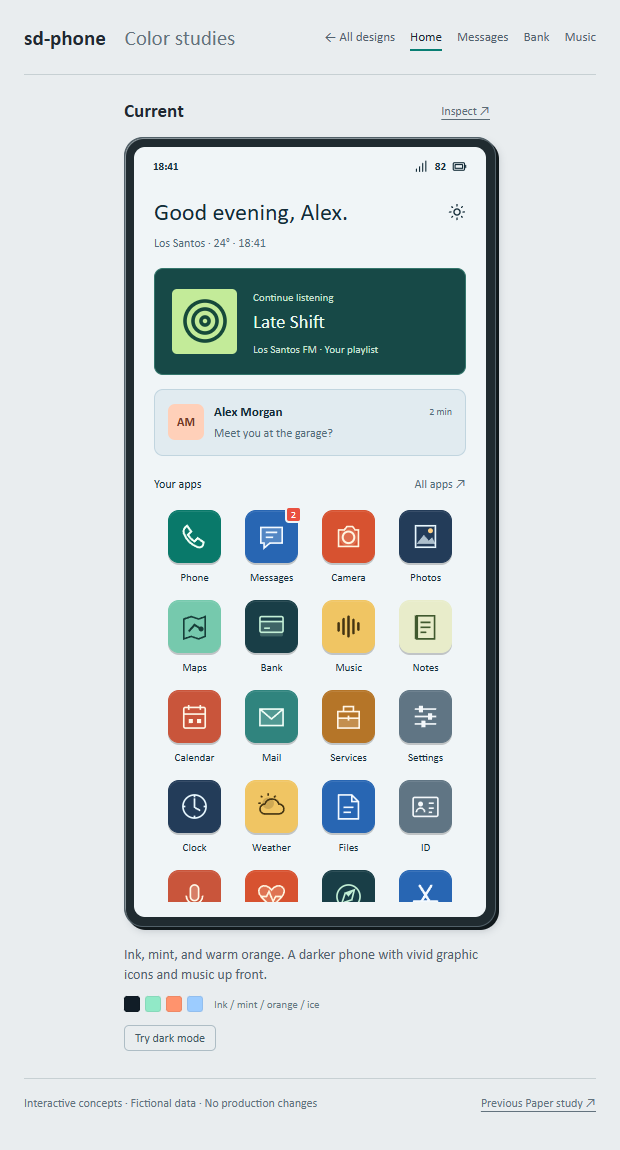
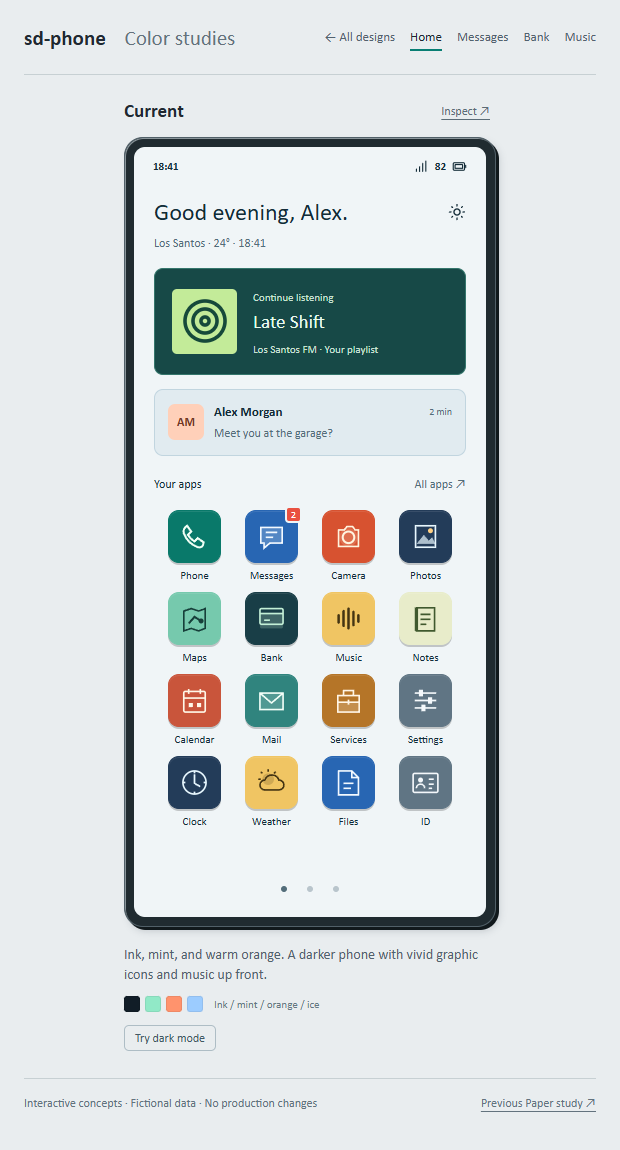
Add horizontal swipe paging to phone concept home screens

diff --git a/designs/phone-concepts/vibrant.html b/designs/phone-concepts/vibrant.html
@@ -44,7 +44,7 @@
     .content::-webkit-scrollbar { display: none; }
     .plain { border: 0; background: none; color: inherit; padding: 0; text-align: left; }
     .home { height: 100%; min-height: 650px; display: flex; flex-direction: column; padding: 13px 20px 15px; }
-    .home > :not(.app-grid) { flex-shrink: 0; }
+    .home > :not(.home-pager) { flex-shrink: 0; }
     .greeting { display: flex; align-items: center; justify-content: space-between; font-size: 12px; color: var(--muted); }
     .greeting .icon { width: 18px; height: 18px; }
     .clock-row { display: flex; justify-content: space-between; align-items: center; margin: 13px 0 16px; }
@@ -64,7 +64,15 @@
     .app-tile { min-width: 0; display: flex; align-items: center; flex-direction: column; gap: 8px; border: 0; background: none; color: var(--ink); padding: 0; }
     .app-mark { width: 53px; height: 53px; border-radius: 11px; position: relative; display: grid; place-items: center; color: var(--glyph); background: var(--tile); border: 1px solid var(--tile); box-shadow: inset 0 1px 0 #ffffff45, 0 2px 0 #10263320, 0 3px 5px #10263312; }
     .app-mark svg { width: 33px; height: 33px; }
-    .home .app-grid { flex: 1; min-height: 0; overflow-y: auto; align-content: start; row-gap: 16px; padding: 5px 5px 12px; scrollbar-width: thin; scrollbar-color: var(--line) transparent; }
+    .home-pager { display: flex; flex: 1; min-height: 0; overflow-x: auto; overflow-y: hidden; scroll-snap-type: x mandatory; overscroll-behavior-x: contain; touch-action: pan-x; scrollbar-width: none; cursor: grab; }
+    .home-pager::-webkit-scrollbar { display: none; }
+    .home-pager.dragging { cursor: grabbing; user-select: none; scroll-snap-type: none; }
+    .home .app-grid { flex: 0 0 100%; min-width: 0; height: 100%; align-content: start; row-gap: 10px; padding: 5px; scroll-snap-align: start; scroll-snap-stop: always; }
+    .home .app-tile { gap: 6px; }
+    .page-dots { display: flex; justify-content: center; height: 26px; align-items: center; gap: 2px; }
+    .page-dots button { display: grid; place-items: center; width: 24px; height: 24px; border: 0; background: none; color: var(--muted); padding: 0; }
+    .page-dots span { width: 6px; height: 6px; border-radius: 50%; background: currentColor; opacity: .35; }
+    .page-dots button[aria-current="true"] span { opacity: 1; }
     .app-label { font-size: 11px; font-weight: 500; text-align: center; }
     .app-tile:active .app-mark { box-shadow: inset 0 2px 3px #0003; }
     .count { position: absolute; right: -5px; top: -5px; width: 17px; height: 17px; background: #e95140; color: #fff; border: 2px solid var(--bg); border-radius: 4px; font-size: 10px; display: grid; place-items: center; }
@@ -247,7 +255,7 @@
       document.querySelector('h1 span').textContent = 'Coast / White & dark grey';
       document.title = 'sd-phone / Coast — White & dark grey';
     }
-    const state = Object.fromEntries(designs.map(d => [d.id, { page:'home', mode:d.mode, playing:false, messages:[], contact:'Alex Morgan' }]));
+    const state = Object.fromEntries(designs.map(d => [d.id, { page:'home', homeIndex:0, mode:d.mode, playing:false, messages:[], contact:'Alex Morgan' }]));
     const button = (id, content, cls='plain') => `<button class="${cls}" data-open="${id}" aria-label="${appNames[id] || ({home:'Home',apps:'All apps',chat:'Open conversation'}[id]) || id}">${content}</button>`;
     const tempoColors = { maps:'#24725a', music:'#856318', notes:'#40592e', camera:'#b54425', calendar:'#ac422c', services:'#885519', settings:'#526572', weather:'#856318', pages:'#856318', streaks:'#856318' };
     const tile = id => `<button class="app-tile" data-open="${id}" data-app-tile aria-label="${appNames[id]}${id === 'messages' ? ', 2 unread' : ''}"><span class="app-mark" style="--tile:${colors[id][0]};--glyph:${colors[id][1]};--current-glyph:${colors[id][2]};--tempo-glyph:${tempoColors[id] || colors[id][0]}"><svg viewBox="0 0 40 40" aria-hidden="true">${marks[id]}</svg>${id === 'messages' ? '<span class="count" aria-hidden="true">2</span>' : ''}</span><span class="app-label">${appNames[id]}</span></button>`;
@@ -255,7 +263,7 @@
     const input = label => `<label class="input-field">${icon('search')}<input data-search type="search" placeholder="${label}" aria-label="${label}"></label>`;
     const safe = value => value.replace(/[&<>"']/g, char => ({'&':'&amp;','<':'&lt;','>':'&gt;','"':'&quot;',"'":'&#39;'}[char]));
     function home(id) {
-      return `<div class="home"><div class="greeting"><span>${id === 'current' ? 'Good evening, Alex.' : 'Friday, September 25'}</span>${icon('sun')}</div><div class="clock-row"><div class="clock">${id === 'current' ? '18:41' : '09:41'}</div><div class="weather">${icon('sun')}<span>24°</span></div></div><div class="place">Los Santos${id === 'current' ? ' · 24° · 18:41' : ' · Clear skies'}</div>${id === 'current' ? button('music', `<div class="hero-record">${icon('record')}</div><div><span>Continue listening</span><strong>Late Shift</strong><span>Los Santos FM · Your playlist</span></div>`, 'hero-music') : ''}${button('chat', '<span class="avatar">AM</span><div class="preview-copy"><div><strong>Alex Morgan</strong><time>2 min</time></div><p>Meet you at the garage?</p></div>', 'message-preview')}<div class="apps-caption"><span>Your apps</span>${button('apps','All apps ↗')}</div><div class="app-grid">${Object.keys(appNames).map(tile).join('')}</div></div>`;
+      return `<div class="home"><div class="greeting"><span>${id === 'current' ? 'Good evening, Alex.' : 'Friday, September 25'}</span>${icon('sun')}</div><div class="clock-row"><div class="clock">${id === 'current' ? '18:41' : '09:41'}</div><div class="weather">${icon('sun')}<span>24°</span></div></div><div class="place">Los Santos${id === 'current' ? ' · 24° · 18:41' : ' · Clear skies'}</div>${id === 'current' ? button('music', `<div class="hero-record">${icon('record')}</div><div><span>Continue listening</span><strong>Late Shift</strong><span>Los Santos FM · Your playlist</span></div>`, 'hero-music') : ''}${button('chat', '<span class="avatar">AM</span><div class="preview-copy"><div><strong>Alex Morgan</strong><time>2 min</time></div><p>Meet you at the garage?</p></div>', 'message-preview')}<div class="apps-caption"><span>Your apps</span>${button('apps','All apps ↗')}</div><div class="home-pager" tabindex="0" aria-label="App pages. Swipe left or right, or use arrow keys."><div class="app-grid">${tile('phone')}</div></div><div class="page-dots" aria-label="Choose an app page"></div></div>`;
     }
     function content(id,s) {
       if(s.page === 'home') return home(id);
@@ -273,7 +281,67 @@
     function render(id) {
       const phone = document.querySelector(`[data-design="${id}"]`); const s=state[id];
       phone.querySelector('.content').innerHTML = content(id,s);
+      if(s.page==='home' && !phone.hidden) setupHomePaging(phone);
     }
+    function setupHomePaging(phone) {
+      const pager=phone.querySelector('.home-pager'); if(!pager || !pager.clientWidth)return;
+      const sample=pager.querySelector('.app-tile');
+      const gridStyle=getComputedStyle(pager.querySelector('.app-grid')), gap=parseFloat(gridStyle.rowGap);
+      const usableHeight=pager.clientHeight-parseFloat(gridStyle.paddingTop)-parseFloat(gridStyle.paddingBottom);
+      const perPage=Math.max(4,Math.floor((usableHeight+gap)/(sample.getBoundingClientRect().height+gap))*4);
+      const apps=Object.keys(appNames), pages=Array.from({length:Math.ceil(apps.length/perPage)},(_,index)=>apps.slice(index*perPage,(index+1)*perPage));
+      pager.innerHTML=pages.map((apps,index)=>`<div class="app-grid" role="group" aria-label="App page ${index+1} of ${pages.length}">${apps.map(tile).join('')}</div>`).join('');
+      phone.querySelector('.page-dots').innerHTML=pages.map((_,index)=>`<button data-home-page="${index}" aria-label="App page ${index+1} of ${pages.length}"><span aria-hidden="true"></span></button>`).join('');
+      const s=state[phone.dataset.design]; s.homeIndex=Math.min(s.homeIndex,pages.length-1);
+      const update=()=>{
+        s.homeIndex=Math.round(pager.scrollLeft/pager.clientWidth);
+        phone.querySelectorAll('[data-home-page]').forEach((dot,index)=>dot.setAttribute('aria-current',String(index===s.homeIndex)));
+        pager.querySelectorAll('.app-grid').forEach((grid,index)=>{grid.inert=index!==s.homeIndex;grid.setAttribute('aria-hidden',String(index!==s.homeIndex));});
+      };
+      pager.scrollLeft=s.homeIndex*pager.clientWidth; update();
+      pager.onscroll=update;
+      let drag=null;
+      pager.onpointerdown=event=>{
+        if(event.pointerType!=='mouse'||event.button!==0)return;
+        pager.suppressClickUntil=0;
+        drag={x:event.clientX,y:event.clientY,start:pager.scrollLeft,index:s.homeIndex,moved:false};
+      };
+      pager.onpointermove=event=>{
+        if(!drag)return;
+        const dx=event.clientX-drag.x;
+        if(!drag.moved && Math.abs(dx)>8 && Math.abs(dx)>Math.abs(event.clientY-drag.y)){
+          drag.moved=true;pager.classList.add('dragging');pager.setPointerCapture(event.pointerId);
+        }
+        if(drag.moved){event.preventDefault();pager.scrollLeft=drag.start-dx;}
+      };
+      const finish=(event,cancelled=false)=>{
+        if(!drag)return;
+        if(drag.moved){
+          pager.suppressClickUntil=performance.now()+350;
+          const dx=event.clientX-drag.x;
+          const index=cancelled?drag.index:drag.index+(Math.abs(dx)>pager.clientWidth*.15?(dx<0?1:-1):0);
+          pager.classList.remove('dragging');goHomePage(phone,index);
+          if(pager.hasPointerCapture(event.pointerId))pager.releasePointerCapture(event.pointerId);
+        }
+        drag=null;
+      };
+      pager.onpointerup=event=>finish(event);
+      pager.onpointercancel=event=>finish(event,true);
+      pager.onpointerleave=()=>{if(drag&&!drag.moved)drag=null;};
+      pager.onkeydown=event=>{
+        if(!['ArrowLeft','ArrowRight'].includes(event.key))return;
+        event.preventDefault();goHomePage(phone,s.homeIndex+(event.key==='ArrowRight'?1:-1));
+      };
+    }
+    function goHomePage(phone,index) {
+      const pager=phone.querySelector('.home-pager');
+      index=Math.max(0,Math.min(index,pager.children.length-1));
+      pager.scrollTo({left:index*pager.clientWidth,behavior:matchMedia('(prefers-reduced-motion: reduce)').matches?'instant':'smooth'});
+    }
+    document.addEventListener('click',event=>{
+      const pager=event.target.closest('.home-pager');
+      if(pager && performance.now()<pager.suppressClickUntil){event.preventDefault();event.stopPropagation();}
+    },true);
     function changeMode(phone) {
       const s=state[phone.dataset.design]; s.mode=s.mode==='light'?'dark':'light';
       phone.querySelector('.screen').dataset.mode=s.mode;
@@ -283,6 +351,7 @@
     function focusDesign(id) {
       document.body.classList.toggle('focus',!!id);
       document.querySelectorAll('.concept').forEach(el=>el.hidden=!!id&&el.dataset.design!==id);
+      document.querySelectorAll('.concept:not([hidden])').forEach(setupHomePaging);
       const url=new URL(location.href); id?url.searchParams.set('concept',id):url.searchParams.delete('concept'); history.replaceState(null,'',url); window.scrollTo(0,0);
     }
     document.addEventListener('click',event=>{
@@ -291,6 +360,7 @@
       const page=event.target.closest('[data-page]');
       if(page){ designs.forEach(d=>{state[d.id].page=page.dataset.page;state[d.id].contact='Alex Morgan';render(d.id);});document.querySelectorAll('[data-page]').forEach(b=>b.setAttribute('aria-pressed',String(b===page)));return; }
       const phone=event.target.closest('[data-design]'); if(!phone)return;const id=phone.dataset.design;const s=state[id];
+      const dot=event.target.closest('[data-home-page]');if(dot){goHomePage(phone,Number(dot.dataset.homePage));return;}
       if(event.target.closest('button[data-mode]')){changeMode(phone);return;}
       const open=event.target.closest('[data-open]');if(open){s.page=open.dataset.open;if(s.page==='chat')s.contact='Alex Morgan';render(id);phone.querySelector('.content').scrollTop=0;}
       const contact=event.target.closest('[data-contact]');if(contact){s.contact=contact.dataset.contact;s.page='chat';render(id);}
@@ -305,6 +375,8 @@
       if(!event.target.matches('.composer'))return;event.preventDefault();const phone=event.target.closest('[data-design]');const s=state[phone.dataset.design];const text=event.target.querySelector('input').value.trim();
       if(text){s.messages.push({contact:s.contact,text});render(phone.dataset.design);phone.querySelector('.content').scrollTop=9999;phone.querySelector('.composer input').focus();}
     });
+    let resizeFrame;
+    window.addEventListener('resize',()=>{cancelAnimationFrame(resizeFrame);resizeFrame=requestAnimationFrame(()=>document.querySelectorAll('.concept:not([hidden])').forEach(setupHomePaging));});
     designs.forEach(d=>render(d.id));
     const requested=new URLSearchParams(location.search).get('concept');if(designs.some(d=>d.id===requested))focusDesign(requested);
   </script>

diff --git a/designs/phone-concepts/README.md b/designs/phone-concepts/README.md
@@ -6,7 +6,7 @@ Open `vibrant.html` for three fresh directions: **Coast** (clean white or dark g
 
 Open `vibrant.html?study=coast` to compare the selected Coast design in both modes. Light mode uses pure white `#ffffff`, dark text `#23262c`, and neutral surfaces `#f2f3f5`. Dark mode uses dark grey `#222428`, white text `#f4f5f7`, and graphite surfaces `#303338`. Backgrounds, text, borders, and the device frame have no green tint; individual app icons retain their colors.
 
-The home-screen music strip and bottom Home / Apps / Messages navigation bar have been removed. The compact four-column grid now includes all 33 apps in the phone registry, instead of only 12 sample icons. Scroll the app grid for the remaining rows, or use All apps to search. Icons retain their original size and each added app has a matching graphic mark. Removed apps are not included. These are preview tiles, not new production apps. Use the back button inside each app to return. The controls above the phones remain available for comparing example screens.
+The home-screen music strip and bottom Home / Apps / Messages navigation bar have been removed. All 33 registry apps use a compact four-column grid with iPhone-style horizontal pages, not a vertically scrolling home grid. Swipe left/right on touch screens or drag with a mouse; pages snap into place. Click the page dots or focus the grid and use left/right arrow keys to navigate. Rows are packed to fit each preview without clipping or vertical scrolling, and returning from an app preserves the home page. Icons retain their original size and matching graphic marks. All apps still opens the searchable directory. Removed apps are not included. These are preview tiles, not new production apps. The controls above the phones remain available for comparing example screens.
 
 Screenshots are in `screenshots/vibrant/`. Run `node designs/phone-concepts/capture-vibrant.mjs` to refresh them and check interactions. This uses the existing Playwright dependency and installed Chrome.
 
